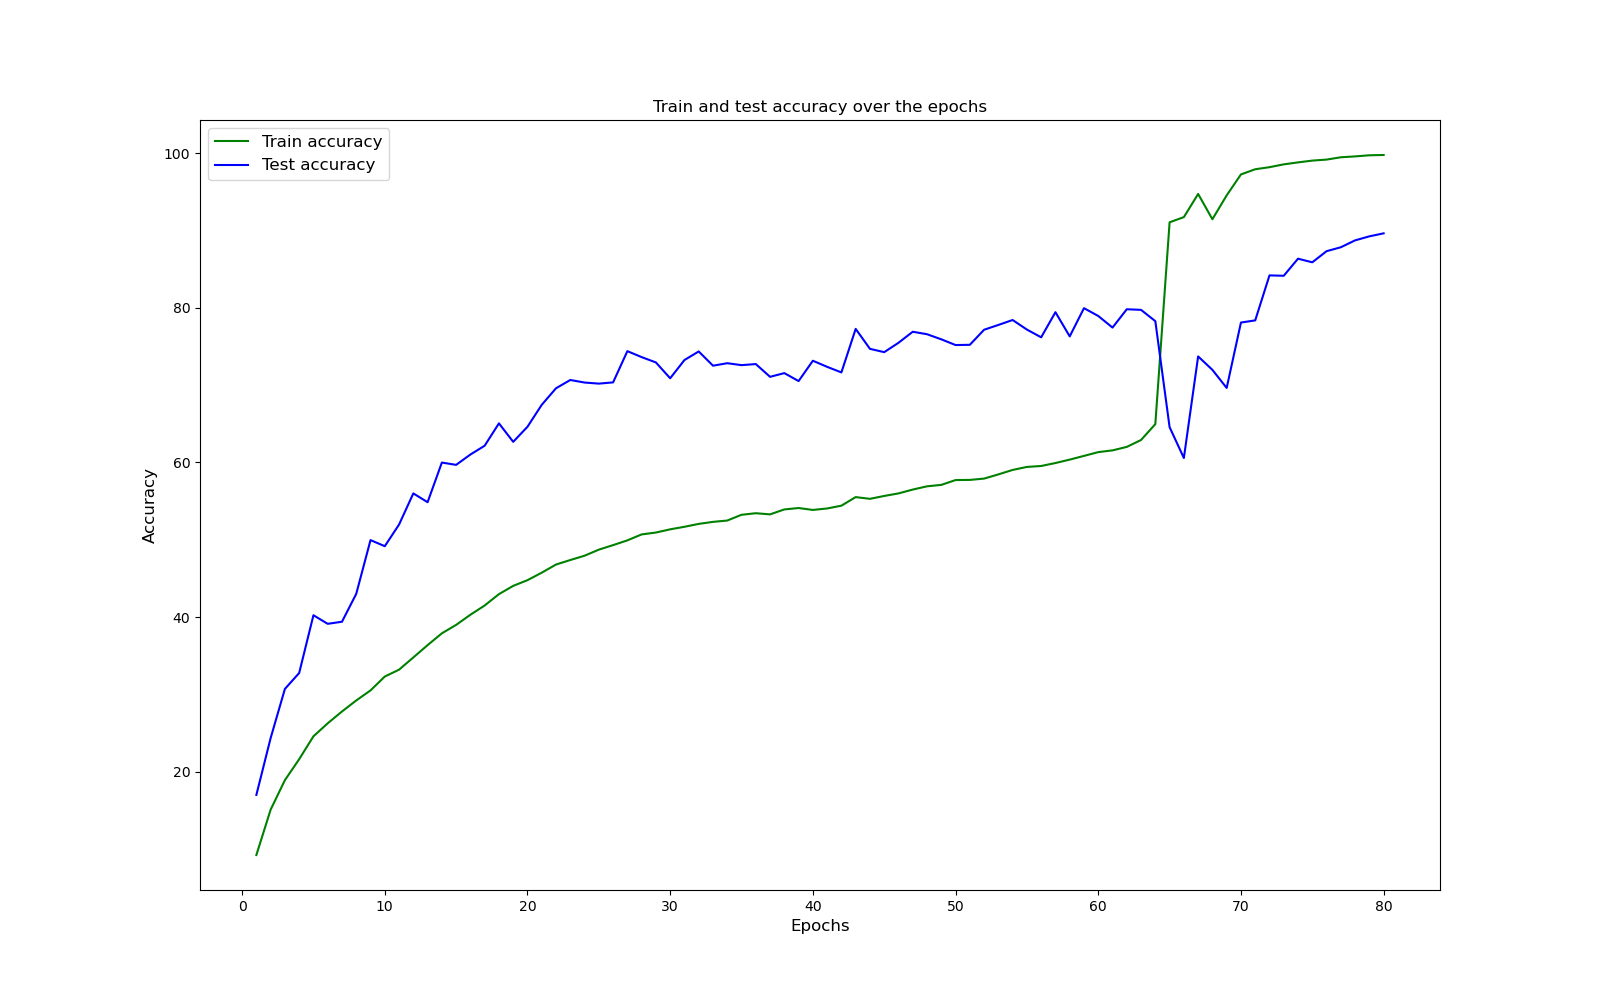
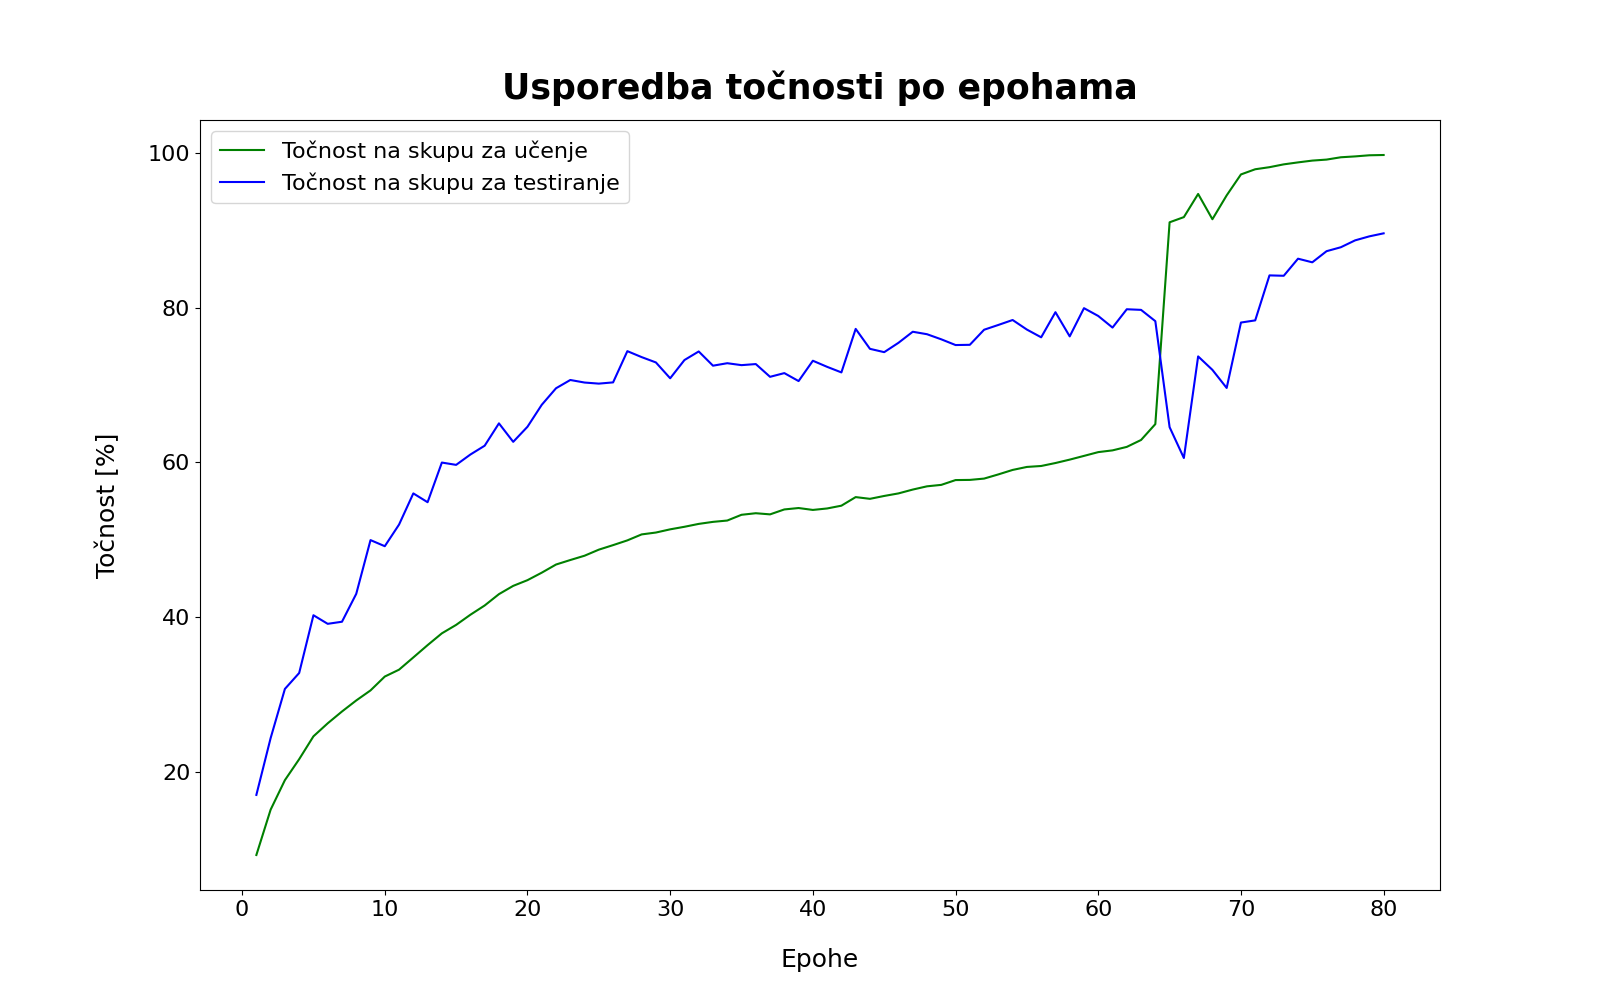
graphs

diff --git a/graphing_funcs.py b/graphing_funcs.py
@@ -250,14 +250,16 @@ def show_accuracies(name, save=False, show=True):
             test_acc.append(data[key]["test_accuracy"])
 
     # Plot the train and test accuracies over epochs
-    plt.plot(range(1, num_of_epochs+1), np.array(train_acc), "g-", label="Train accuracy")
-    plt.plot(range(1, num_of_epochs+1), np.array(test_acc), "b-", label="Test accuracy")
+    plt.plot(range(1, num_of_epochs+1), np.array(train_acc), "g-", label="Točnost na skupu za učenje")
+    plt.plot(range(1, num_of_epochs+1), np.array(test_acc), "b-", label="Točnost na skupu za testiranje")
+    plt.xticks(fontsize=16)
+    plt.yticks(fontsize=16)
 
-    plt.xlabel("Epochs", fontsize=12)
-    plt.ylabel("Accuracy", fontsize=12)
+    plt.xlabel("Epohe", fontsize=18, labelpad=20)
+    plt.ylabel("Točnost [%]", fontsize=18, labelpad=20)
 
-    plt.title("Train and test accuracy over the epochs")
-    plt.legend(fontsize=12)
+    plt.title("Usporedba točnosti po epohama", fontweight='bold', fontsize=25, pad=15)
+    plt.legend(fontsize=16)
 
     if save:
         save_path = f"./stats/{name}/accuracies.png"
@@ -320,13 +322,15 @@ def show_adversarial_accuracies(name, save=False, show=True):
             adv_acc.append(data[key]["adv_accuracy"])
 
     # Plot the train and test accuracies over epochs
-    plt.plot(range(1, num_of_epochs+1), np.array(adv_acc), "g-", label="Adversarial accuracy")
+    plt.plot(range(1, num_of_epochs+1), np.array(adv_acc), "g-", label="Točnost na neprijateljskim primjerima (20-PGD)")
 
-    plt.xlabel("Epochs", fontsize=12)
-    plt.ylabel("Accuracy on adversarial examples", fontsize=12)
+    plt.xlabel("Epohe", fontsize=18, labelpad=20)
+    plt.ylabel("Točnost [%]", fontsize=18, labelpad=20)
+    plt.xticks(fontsize=16)
+    plt.yticks(fontsize=16)
 
-    plt.title("Accuracy on adversarial examples over the epochs")
-    plt.legend(fontsize=12)
+    plt.title("Točnost na neprijateljskim primjerima po epohama", fontweight='bold', fontsize=25, pad=15)
+    plt.legend(fontsize=16)
 
     if save:
         save_path = f"./stats/{name}/adv_accuracies.png"
